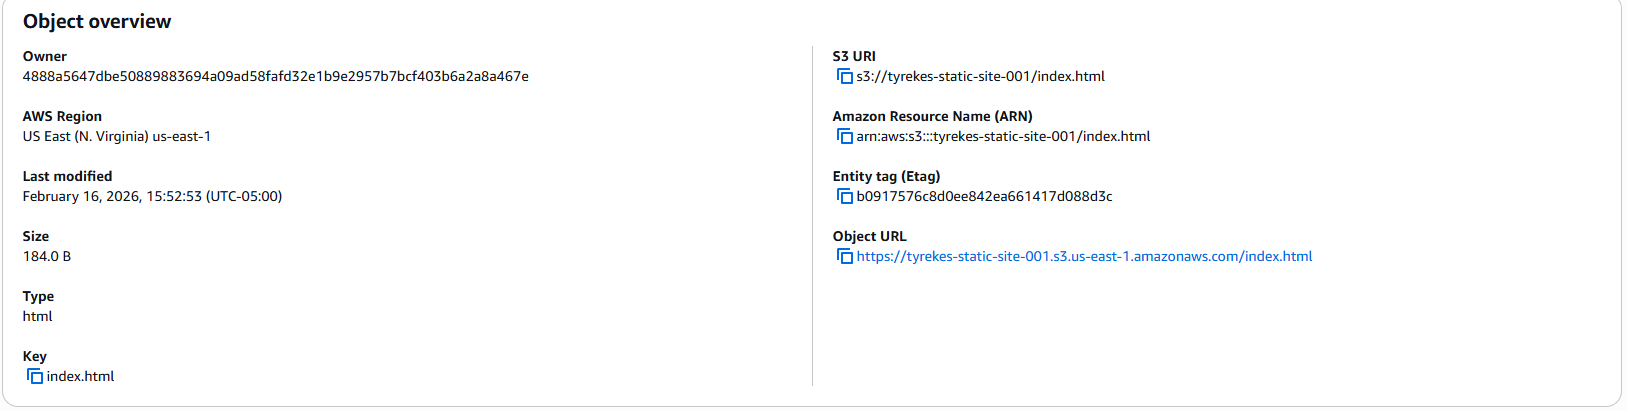
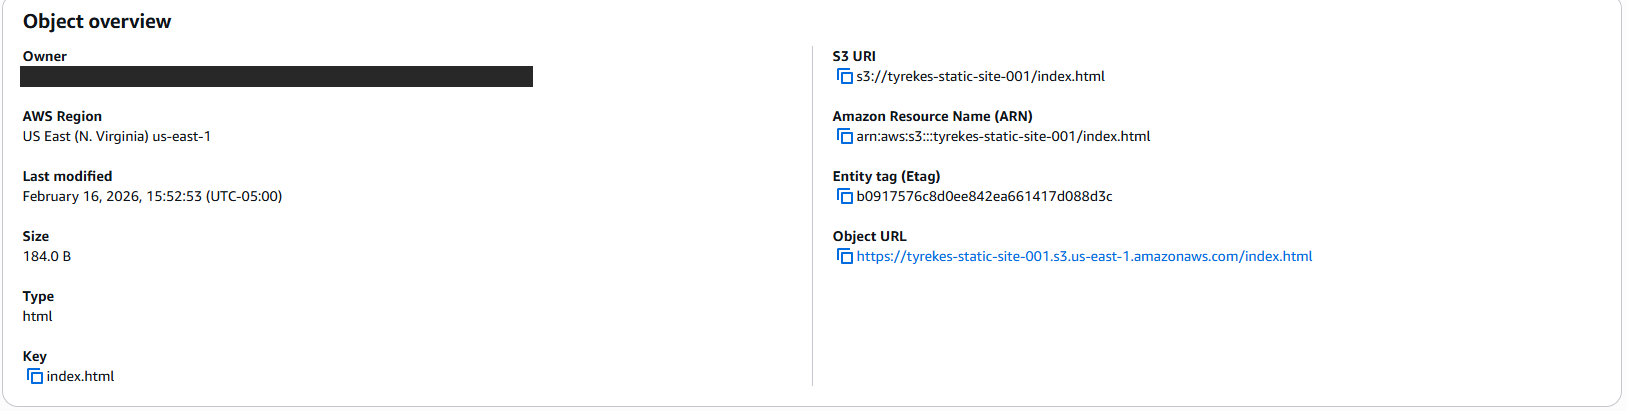
Update portfolio README for employers; redact account identifiers in screenshots
Claude-Session: https://claude.ai/code/session_012KK5NWtZt13RaEhki1oRbQ

Changed region(s): [[0.0, 0.146, 0.338, 0.2336]]

diff --git a/README.md b/README.md
@@ -1,46 +1,35 @@
-# AWS S3 Static Storage Demo
+# AWS S3 Static File Hosting Demo
 
-## Project Objective
-Deploy a static HTML file into Amazon S3 and understand how AWS object storage works.
+Uploaded a static HTML page to Amazon S3 and verified it was stored with the correct content type so a browser renders it as a web page.
 
----
+## Services
 
-## Services Used
 - Amazon S3
 - AWS Management Console
 
----
+## Steps
 
-## Actions Performed
-1. Created S3 bucket in us-east-1 region
-2. Created a valid HTML file (index.html)
-3. Corrected file extension to ensure proper MIME type
-4. Uploaded file to S3 bucket
-5. Verified object stored as text/html
+1. Created the bucket `tyrekes-static-site-001` in us-east-1.
+2. Wrote a simple `index.html` page.
+3. Fixed the file extension so S3 assigned the correct MIME type (`text/html`). With the wrong extension, browsers download the file instead of displaying it.
+4. Uploaded the file and confirmed the upload succeeded.
+5. Checked the object's metadata to verify the type and storage class.
 
----
+## What I Learned
 
-## Key Concepts Demonstrated
-- Object storage
-- Buckets and objects
-- MIME types
-- Static web assets
-- Cloud file deployment
-
----
+- **Buckets and objects:** a bucket is the container, and every file is an object with a key, metadata, and an ARN.
+- **MIME types matter:** S3 serves files with the content type they were stored with. The wrong type breaks how a browser handles the file.
+- **Private by default:** new buckets block public access. Serving a public site requires deliberately changing the bucket policy or putting CloudFront in front of it.
 
 ## Screenshots
 
-### Bucket Created
+### Bucket created
 ![Bucket](01-bucket-created.png)
 
-### Object Uploaded
+### Object details
 ![Object](02-object-uploaded.png)
 
-### Upload Success Confirmation
+*Owner ID redacted.*
+
+### Upload confirmation
 ![Upload](03-upload-success.png)
-
----
-
-## Outcome
-Successfully deployed a static web file into Amazon S3 and verified storage configuration.
